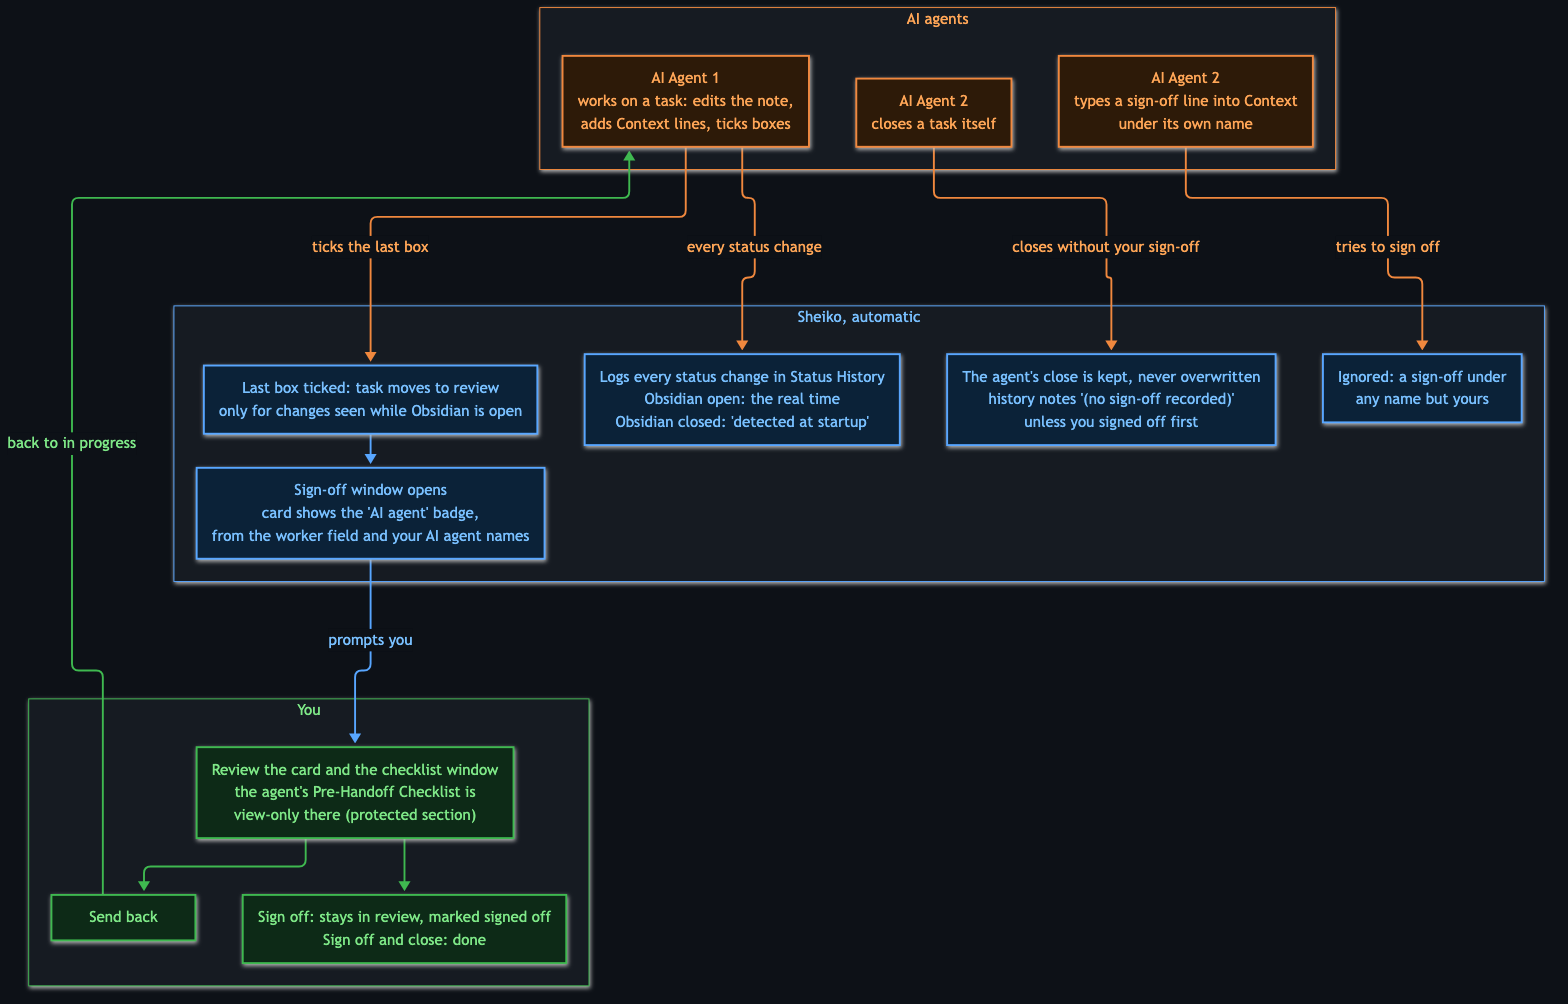
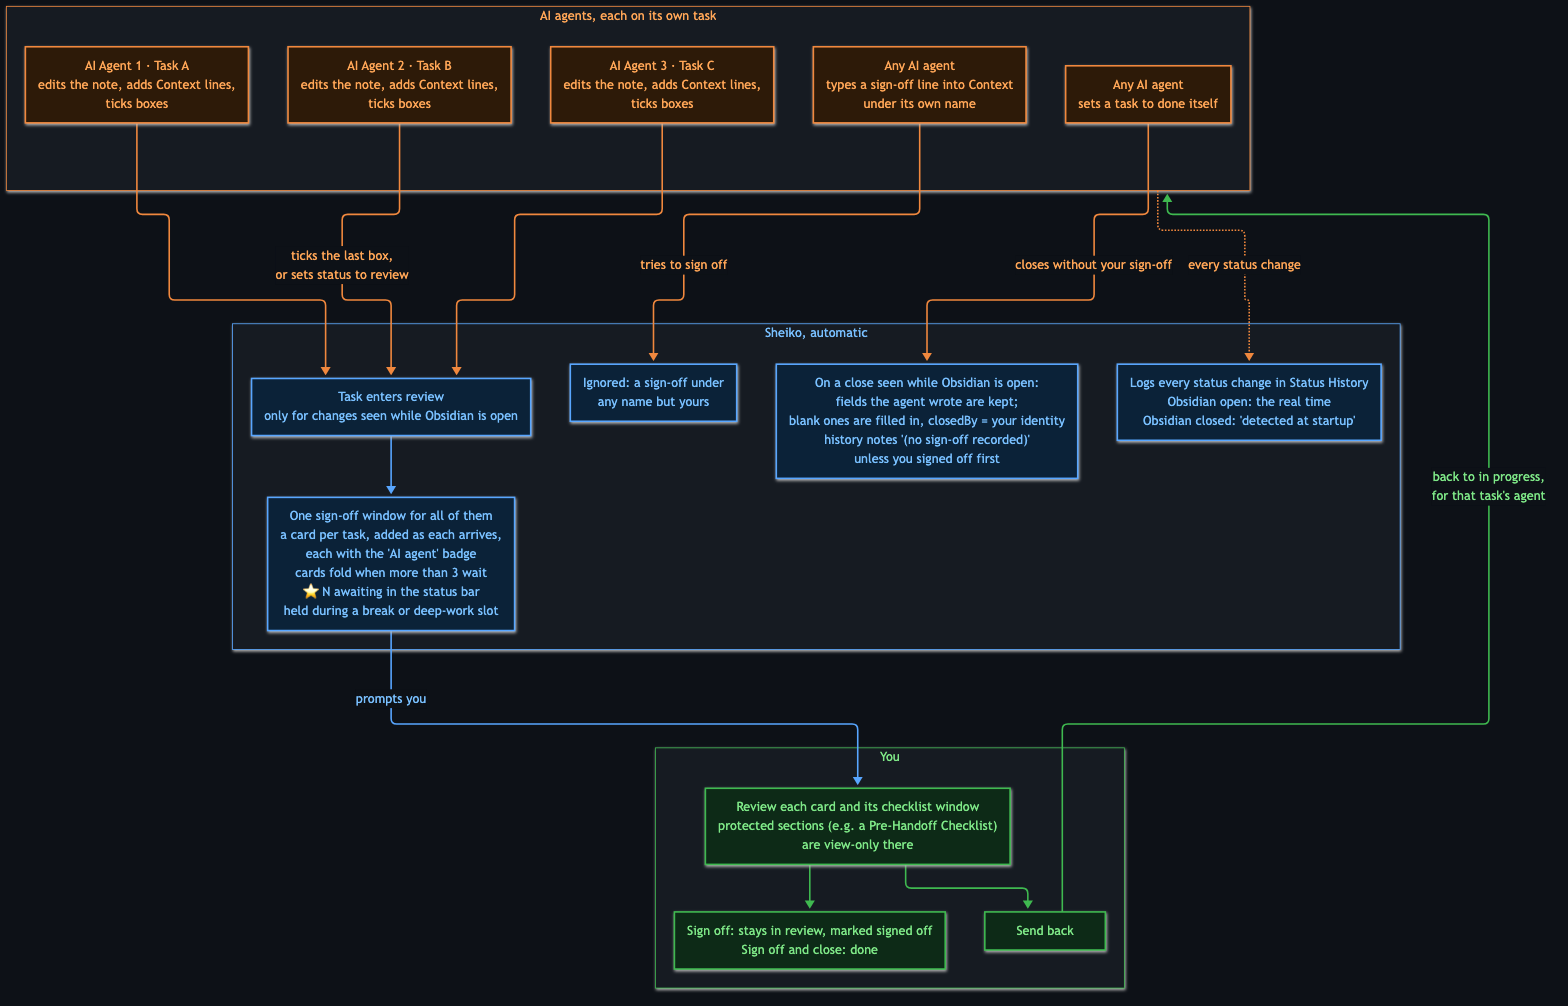
AI agents diagram: several agents, accurate agent-close box; README closure text corrected
From project-manager's read of PR #18, on Sheikh's go-ahead:

- Several agents on separate tasks (AI Agents 1-3, Tasks A-C) all feed
  one sign-off window: a card per task, added as each arrives (main.ts
  promptSignoff), cards fold above 3, star count in the status bar, held
  during a slot.
- Agent-close box: fields the agent wrote are kept; blank ones are
  filled, closedBy = your identity; only for closes seen while Obsidian
  is open (tracker.ts applyClosure).
- Arrow label: "ticks the last box, or sets status to review".
- Generic "protected sections (e.g. a Pre-Handoff Checklist)" wording;
  arrows uncrossed.
- README "Closure fields": the old text said a reopen clears only
  Sheiko's own closes. If Sheiko filled any field it marks the note
  closureSource: sheiko, and applyReopen then clears all closure fields,
  the agent's own included. Text corrected; Known-limits line added;
  both link #19.

diff --git a/README.md b/README.md
@@ -34,7 +34,7 @@ Every step is recorded in the task note: status changes in `## Status History`, 
 
 Colours show who acts: orange for AI agents, blue for Sheiko, green for you. The prompt step assumes the default switches and a review status set (see [Getting started](#getting-started), step 4).
 
-<img src="docs/diagrams/ai-agents-dark.png" alt="Diagram of AI agents working alongside Sheiko, with orange for AI agents, blue for Sheiko and green for you. AI Agent 1 works on a task: it edits the note, adds Context lines and ticks boxes. Every status change it makes is logged in Status History, at the real time if Obsidian is open, or as detected at startup if it was closed. When it ticks the last box, Sheiko moves the task to review (only for changes seen while Obsidian is open) and opens the sign-off window, where the card shows the AI agent badge from the worker field and your AI agent names. Sheiko prompts you: you review the card and the checklist window, where the agent's Pre-Handoff Checklist is view-only as a protected section. You then Send back, which returns the task to in progress for the agent, or Sign off (it stays in review, marked signed off) or Sign off and close (done). AI Agent 2 types a sign-off line into Context under its own name: Sheiko ignores it, because only sign-offs under your name count. When AI Agent 2 closes a task itself, Sheiko keeps the close and never overwrites it, and the history notes no sign-off recorded unless you signed off first.">
+<img src="docs/diagrams/ai-agents-dark.png" alt="Diagram of AI agents working alongside Sheiko, with orange for AI agents, blue for Sheiko and green for you. AI Agents 1, 2 and 3 each work on their own task (A, B, C): they edit the note, add Context lines and tick boxes. When an agent ticks the last box, or sets the status to review, the task enters review (only for changes seen while Obsidian is open). All the tasks go to one sign-off window: a card per task, added as each arrives, each with the AI agent badge; cards fold when more than 3 wait; the status bar shows the number awaiting; prompts are held during a break or deep-work slot. Every status change is logged in Status History, at the real time if Obsidian is open, or as detected at startup if it was closed. Sheiko prompts you: you review each card and its checklist window, where protected sections such as a Pre-Handoff Checklist are view-only. You then Send back, which returns the task to in progress for that task's agent, or Sign off (it stays in review, marked signed off) or Sign off and close (done). When any AI agent types a sign-off line into Context under its own name, Sheiko ignores it, because only sign-offs under your name count. When any AI agent sets a task to done itself, while Obsidian is open, Sheiko keeps the fields the agent wrote, fills the blank ones with closedBy set to your identity, and the history notes no sign-off recorded unless you signed off first.">
 
 The diagrams' Mermaid source is in [`docs/diagrams/`](docs/diagrams/).
 
@@ -91,8 +91,8 @@ To find TaskNotes tasks it looks through the vault's Markdown files (Obsidian's 
 ### Closure fields
 
 - `completedDate` (full ISO), `closedBy` (only if an identity is set) and `timeToCloseMinutes` are written **only for a close Sheiko saw happen live**.
-- Sheiko never overwrites a close written by hand or by another tool.
-- Closes it recorded are marked `closureSource: sheiko`, and a reopen clears only those.
+- Sheiko never overwrites a closure field already there, whether written by hand, by an AI agent or by another tool. On a live close it fills only the **blank** ones. That includes `closedBy`, set to your identity even when someone else, such as an agent, closed the task ([#19](https://github.com/Ashura-Sheikh/Sheiko-obsidian-plugin/issues/19)).
+- If Sheiko filled any field, it marks the note `closureSource: sheiko`. A reopen then clears **all** the closure fields on that note, including ones it didn't write ([#19](https://github.com/Ashura-Sheikh/Sheiko-obsidian-plugin/issues/19)). A note without that mark is left alone on reopen.
 
 ### Time per status, in three buckets
 
@@ -303,6 +303,7 @@ Statuses and field names are read from TaskNotes' settings rather than hardcoded
 
 - A task first seen by Sheiko has no earlier history. It's tracked from then on, with nothing backfilled.
 - If a close written by an agent or by hand is reopened and then closed again live, the original `closedBy` / `timeToCloseMinutes` are kept, so they can be stale.
+- **A close Sheiko didn't make** (for example, an agent setting a task to done while Obsidian is open) gets its blank closure fields filled, including `closedBy` = your identity. Then, if the task is reopened, all its closure fields are cleared, including the agent's own `completedDate` and `closedBy`. Tracked in [#19](https://github.com/Ashura-Sheikh/Sheiko-obsidian-plugin/issues/19).
 - If a task's only recorded status change is the close itself, the Lifecycle Summary's *Time per status* table has no rows.
 - Sheiko waits 600 ms after a change so TaskNotes can finish its own writes. That delay is a timing assumption.
 - Tested only against TaskNotes 4.13.4. A change to TaskNotes' frontmatter or settings shape could break Sheiko.

diff --git a/docs/diagrams/README.md b/docs/diagrams/README.md
@@ -30,5 +30,6 @@ npx -y @mermaid-js/mermaid-cli@12.0.0 -i docs/diagrams/ai-agents.mmd -o docs/dia
 
 - `⚙ <name> · on/off` is a switch in Sheiko's settings and its default. Names match the settings tab (`src/settings.ts`). Defaults match `DEFAULT_SETTINGS`.
 - In `ai-agents.mmd`, colours mean who acts: orange `#f0883e` for AI agents, blue `#58a6ff` for Sheiko, green `#3fb950` for the user. They're set with `classDef` (boxes and text), `style` (lanes) and `linkStyle` (arrows, by edge order). **If you add or reorder an edge, update the `linkStyle` indexes.**
+- In `ai-agents.mmd`, node IDs `a1`–`a3` don't match their labels (`a3` is "AI Agent 1"). The layout engine places `a3` leftmost, so the labels are swapped to read 1, 2, 3 left to right. If you change the agent boxes, re-render and check the order.
 - `wrappingWidth: 360` in each file's front matter keeps boxes wide enough that the setting names fit on one line.
 - Check the journey against the code when the flow changes: `checkCutoff` in `src/main.ts` (end-of-day roll and prompt are separate), and the buttons in `src/ui/signoff-modal.ts` and `src/ui/signedoff-modal.ts`.
